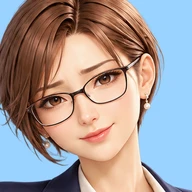
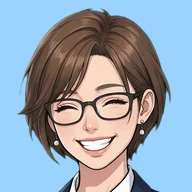
スーツのしおりを Gemini で作り直す（ほかの服と同じ顔に）
Claude-Session: https://claude.ai/code/session_01Dfj8uCgoFYmBxr41ojgaov

diff --git a/src/lib/guideWidths.ts b/src/lib/guideWidths.ts
@@ -4,7 +4,7 @@ export const GUIDE_WIDTHS: Record<string, Record<string, number>> = {
   "gen": {"ask": 285, "bow": 260, "cheer": 298, "coffee": 299, "idea": 286, "jersey-cheer": 295, "jersey-done": 287, "jersey-stretch": 206, "joy": 290, "point": 290, "right": 297, "sad": 251, "surprise": 298, "think": 265, "welldone": 284},
   "gen-suit": {"ask": 230, "bow": 238, "cheer": 251, "coffee": 231, "idea": 231, "joy": 220, "point": 242, "right": 231, "sad": 211, "surprise": 277, "think": 213, "welldone": 215},
   "koyuki": {"ask": 224, "bow": 284, "cheer": 224, "coffee": 224, "idea": 224, "jersey-cheer": 226, "jersey-done": 231, "jersey-stretch": 257, "joy": 224, "point": 271, "right": 224, "sad": 224, "surprise": 224, "think": 224, "welldone": 229},
-  "shiori": {"ask": 323, "bow": 131, "cheer": 209, "coffee": 212, "idea": 231, "jersey-cheer": 240, "jersey-done": 255, "jersey-stretch": 246, "joy": 232, "point": 250, "right": 241, "sad": 216, "surprise": 266, "think": 201, "welldone": 237},
+  "shiori": {"ask": 193, "bow": 153, "cheer": 239, "coffee": 188, "idea": 209, "jersey-cheer": 238, "jersey-done": 200, "jersey-stretch": 295, "joy": 173, "point": 230, "right": 208, "sad": 191, "surprise": 241, "think": 186, "welldone": 173},
   "shiori-casual": {"ask": 256, "bow": 237, "cheer": 224, "coffee": 210, "idea": 212, "joy": 197, "point": 245, "right": 218, "sad": 198, "surprise": 289, "think": 191, "welldone": 194},
   "shiori-summer": {"ask": 215, "bow": 156, "cheer": 181, "coffee": 154, "idea": 170, "joy": 153, "point": 250, "right": 161, "sad": 146, "surprise": 187, "think": 154, "welldone": 158},
   "shiori-winter": {"ask": 259, "bow": 224, "cheer": 249, "coffee": 227, "idea": 240, "joy": 226, "point": 260, "right": 243, "sad": 221, "surprise": 275, "think": 215, "welldone": 226},

diff --git a/docs/HANDOFF.md b/docs/HANDOFF.md
@@ -119,6 +119,11 @@
 
 ## 記録
 
+### 2026-11-07 CC（Claude、プロジェクトのスレッド）スーツのしおりを作り直す
+- ブランチ：claude/project-thread-fdzisk
+- 変更点：田村さん「スーツのしおりもジェミニに作り直させて」。ほかの服（作業着など）と同じ顔で、スーツとジャージの15表情と顔のアイコンを Gemini で作り直した（public/guide/shiori-*.webp、幅の表 src/lib/guideWidths.ts）。ブラウスは胸元を閉じた形にした
+- 確認結果：lint・型検査・テスト通過。絵の一覧を目で確認
+
 ### 2026-11-07 CC（Claude、プロジェクトのスレッド）案内役の服を選べるようにする
 - ブランチ：claude/project-thread-fdzisk
 - 変更点：src/lib/guideCharacter.ts（服の一覧・おまかせ・guideFile、テストあり）、src/lib/guideWidths.ts（public/guide の絵から作る幅の表）、useGuide に useGuideOutfit、fun.tsx の絵と顔のアイコンが服で変わる、マイページの「〇〇の服」、新しくなったことに1つ。源さんの絵を白髪まじりのベテラン職人に差し替え、しおり4着・源さんスーツの絵を Gemini で追加
